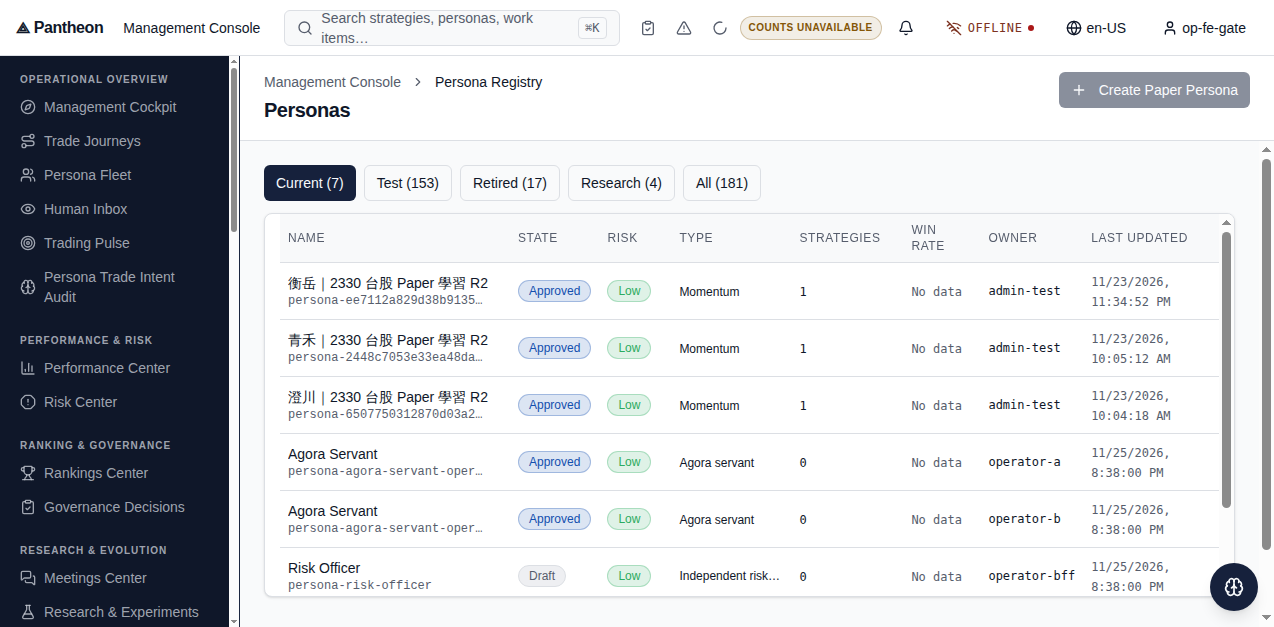
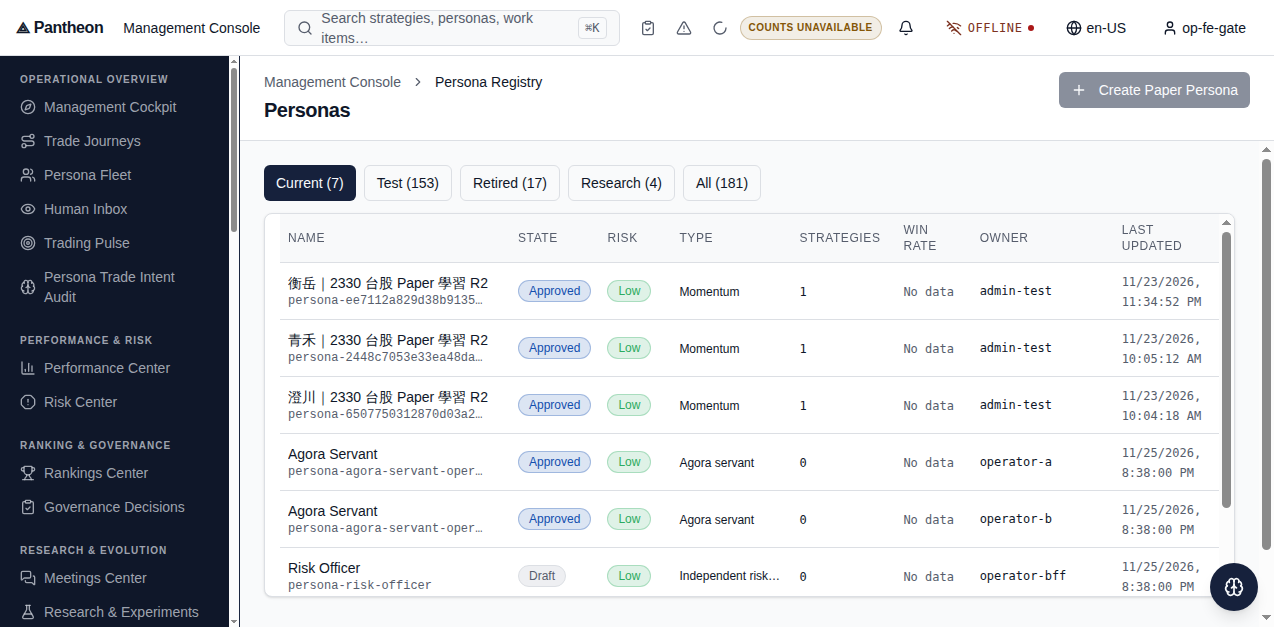
FE-PERSONA-LIST-PLAIN-WORDS-20261125: widen owner cell cap
Widen OwnerCell max-width to 144px and w.owner column min-width to 142px
on PersonasList and ArtifactsList so recorded distinguishing owners
including paper-provisioner render untruncated (scrollWidth <= clientWidth)
at 1274x627 and 1920x1000 while keeping no horizontal scroll and
name column >= 220px.

LLM-Agent: Antigravity2
Task-ID: FE-PERSONA-LIST-PLAIN-WORDS-20261125
Reviewer: Claude2
Verified: tsc, npm run lint, vitest (67 tests), playwright (27 tests)

diff --git a/e2e/management-list-short-window.spec.ts b/e2e/management-list-short-window.spec.ts
@@ -974,7 +974,9 @@ const RECORDED_SEVEN_CURRENT_PERSONAS: Array<Record<string, unknown>> = [
 ];
 
 function buildRecordedSevenCurrentPersonasCatalog(): Array<Record<string, unknown>> {
-  const nonCurrent = buildHostedPersonas().filter((r) => r.listScope !== "current");
+  const nonCurrent = buildHostedPersonas()
+    .filter((r) => r.listScope !== "current")
+    .map((r) => (r.listScope === "test" ? { ...r, owner: "pantheon-dev-paper-provisioner" } : r));
   return [...RECORDED_SEVEN_CURRENT_PERSONAS, ...nonCurrent];
 }
 
@@ -1049,6 +1051,8 @@ test.describe("FE-PERSONA-LIST-PLAIN-WORDS-20261125 recorded 7 current personas,
               text: (el.textContent || "").trim(),
               title: el.getAttribute("title"),
               full: el.getAttribute("data-full-owner"),
+              clientWidth: el.clientWidth,
+              scrollWidth: el.scrollWidth,
             })),
             symbolItems: symbolItems.map((el) => ({
               text: (el.textContent || "").trim(),
@@ -1117,12 +1121,33 @@ test.describe("FE-PERSONA-LIST-PLAIN-WORDS-20261125 recorded 7 current personas,
           expect(m.owners[3].title).toBe("pantheon-dev-operator-a");
           expect(m.owners[4].title).toBe("pantheon-dev-operator-b");
           expect(m.owners[5].title).toBe("operator-bff");
+          for (const owner of m.owners) {
+            expect(owner.scrollWidth, `persona owner ${owner.text} untruncated`).toBeLessThanOrEqual(owner.clientWidth);
+          }
+          await page.getByRole("button", { name: /^Test \(153\)$/ }).click();
+          const testOwnerMetric = await page.evaluate(() => {
+            const scroller = document.querySelector<HTMLElement>("[data-management-table-scrollbar='native']")!;
+            const el = scroller.querySelector<HTMLElement>('[data-testid="owner-cell"]')!;
+            return {
+              text: (el.textContent || "").trim(),
+              clientWidth: el.clientWidth,
+              scrollWidth: el.scrollWidth,
+              tableClientWidth: scroller.clientWidth,
+              tableScrollWidth: scroller.scrollWidth,
+            };
+          });
+          expect(testOwnerMetric.text).toBe("paper-provisioner");
+          expect(testOwnerMetric.scrollWidth).toBeLessThanOrEqual(testOwnerMetric.clientWidth);
+          expect(testOwnerMetric.tableScrollWidth).toBeLessThanOrEqual(testOwnerMetric.tableClientWidth + 1);
         }
 
         if (route.key === "artifacts") {
           expect(m.rowCount).toBe(5);
           expect(m.owners[0].text).toBe("paper-provisioner");
           expect(m.owners[0].title).toBe("pantheon-dev-paper-provisioner");
+          for (const owner of m.owners) {
+            expect(owner.scrollWidth, `artifact owner ${owner.text} untruncated`).toBeLessThanOrEqual(owner.clientWidth);
+          }
         }
 
         if (route.key === "strategies") {

diff --git a/src/management/pages/Lists.tsx b/src/management/pages/Lists.tsx
@@ -949,10 +949,10 @@ export const PERSONA_COLUMN_MIN_WIDTHS = {
   state: 88,
   risk: 72,
   type: 92,
-  strategies: 112,
+  strategies: 104,
   winRate: 76,
-  owner: 96,
-  updated: 104,
+  owner: 142,
+  updated: 96,
 } as const;
 
 /** `null` / missing win rate is "no data", never 0%. */
@@ -996,7 +996,7 @@ function OwnerCell({ owner, noData }: { owner: unknown; noData: string }) {
   }
   return (
     <span
-      className="text-mono text-xs block max-w-[96px] truncate whitespace-nowrap"
+      className="text-mono text-xs block max-w-[144px] truncate whitespace-nowrap"
       title={resolved.full}
       data-full-owner={resolved.full}
       data-testid="owner-cell"
@@ -2186,13 +2186,13 @@ function artifactScopeFromSource(row: unknown): RegistryListScope | undefined {
 
 export const ARTIFACT_COLUMN_MIN_WIDTHS = {
   name: 230,
-  source: 84,
-  kind: 100,
-  version: 84,
-  state: 92,
-  hash: 104,
-  owner: 96,
-  updated: 104,
+  source: 76,
+  kind: 88,
+  version: 68,
+  state: 88,
+  hash: 96,
+  owner: 142,
+  updated: 96,
 } as const;
 
 function WordWithCode({ value, testId }: { value: { text: string; code: string } | undefined; testId: string }) {

diff --git a/e2e/artifact-hosted-width.spec.ts b/e2e/artifact-hosted-width.spec.ts
@@ -134,6 +134,8 @@ test.describe("FE-ARTIFACT-HOSTED-WIDTH-20261106 Artifact list width", () => {
           ownerFullAttr: ownerCell.getAttribute("data-full-owner"),
           ownerTitle: ownerCell.getAttribute("title"),
           ownerCellHeight: oc.height,
+          ownerClientWidth: ownerCell.clientWidth,
+          ownerScrollWidth: ownerCell.scrollWidth,
           docOverflow: document.documentElement.scrollWidth - document.documentElement.clientWidth,
         };
       }, OWNER);
@@ -146,6 +148,7 @@ test.describe("FE-ARTIFACT-HOSTED-WIDTH-20261106 Artifact list width", () => {
       expect(m.ownerText).toBe("paper-provisioner");
       expect(m.ownerFullAttr).toBe(OWNER);
       expect(m.ownerTitle).toBe(OWNER);
+      expect(m.ownerScrollWidth).toBeLessThanOrEqual(m.ownerClientWidth);
       expect(m.maxRowHeight).toBeLessThanOrEqual(72);
       // The table now fits both widths without horizontal scrolling (it only did at 1600 before).
       expect(m.lastRight).toBeLessThanOrEqual(m.viewportWidth);

diff --git a/src/management/pages/Lists.test.tsx b/src/management/pages/Lists.test.tsx
@@ -1346,6 +1346,9 @@ describe("FE-PERSONA-LIST-PLAIN-WORDS-20261125 trading-first order, plain-word t
       expect(ownerCell).toHaveTextContent("paper-provisioner");
       expect(ownerCell).toHaveAttribute("title", "pantheon-dev-paper-provisioner");
       expect(ownerCell).toHaveAttribute("data-full-owner", "pantheon-dev-paper-provisioner");
+      expect(ownerCell).toHaveClass("max-w-[144px]");
+      expect(PERSONA_COLUMN_MIN_WIDTHS.owner).toBeGreaterThanOrEqual(140);
+      expect(ARTIFACT_COLUMN_MIN_WIDTHS.owner).toBeGreaterThanOrEqual(140);
       unmount();
 
       vi.spyOn(lists, "strategies").mockResolvedValue({
